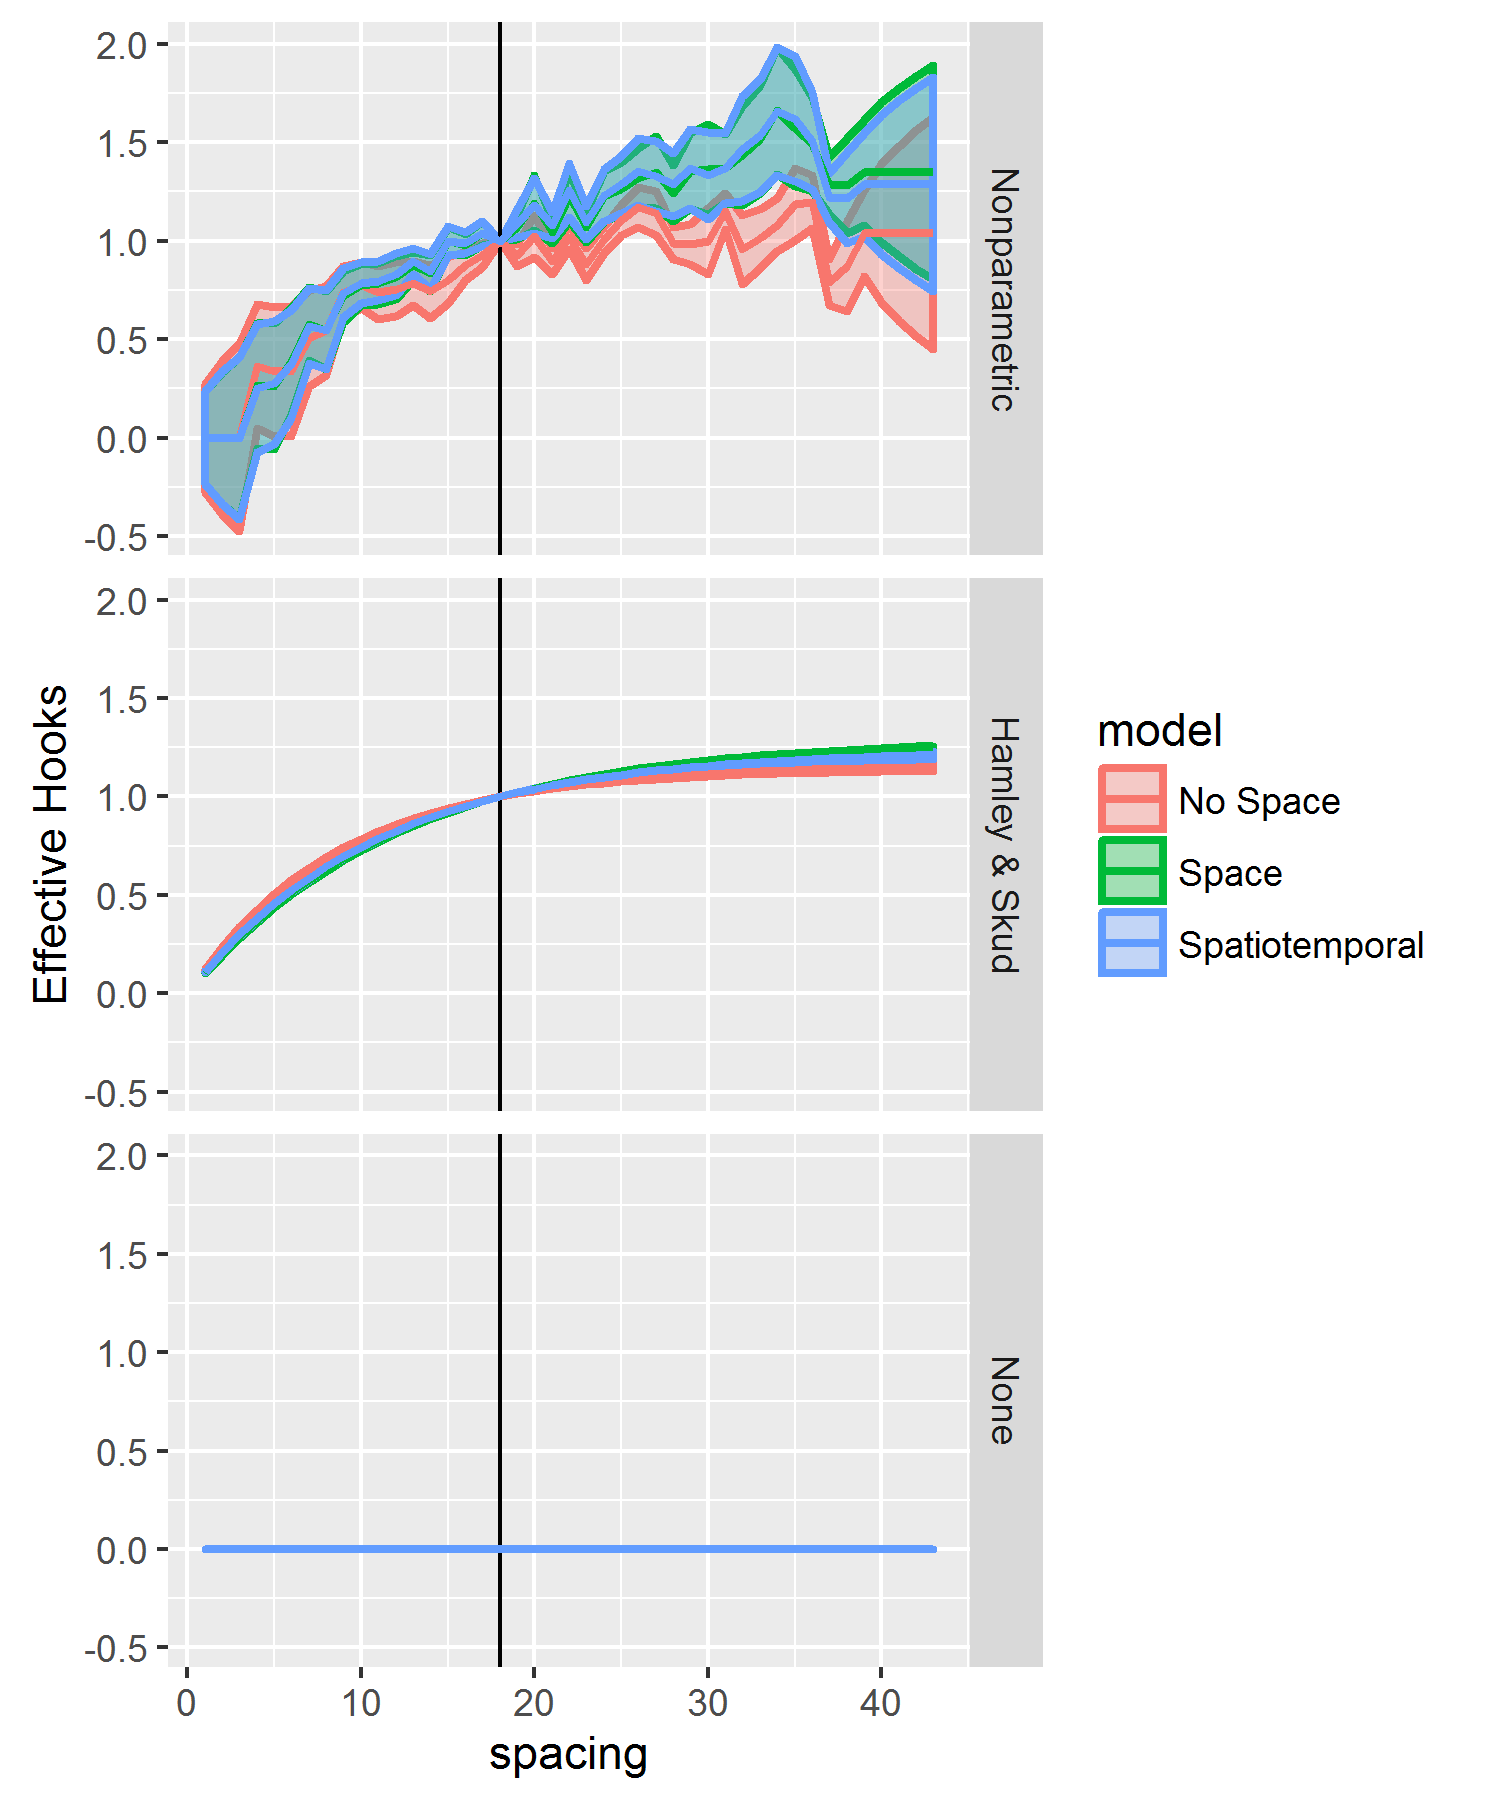
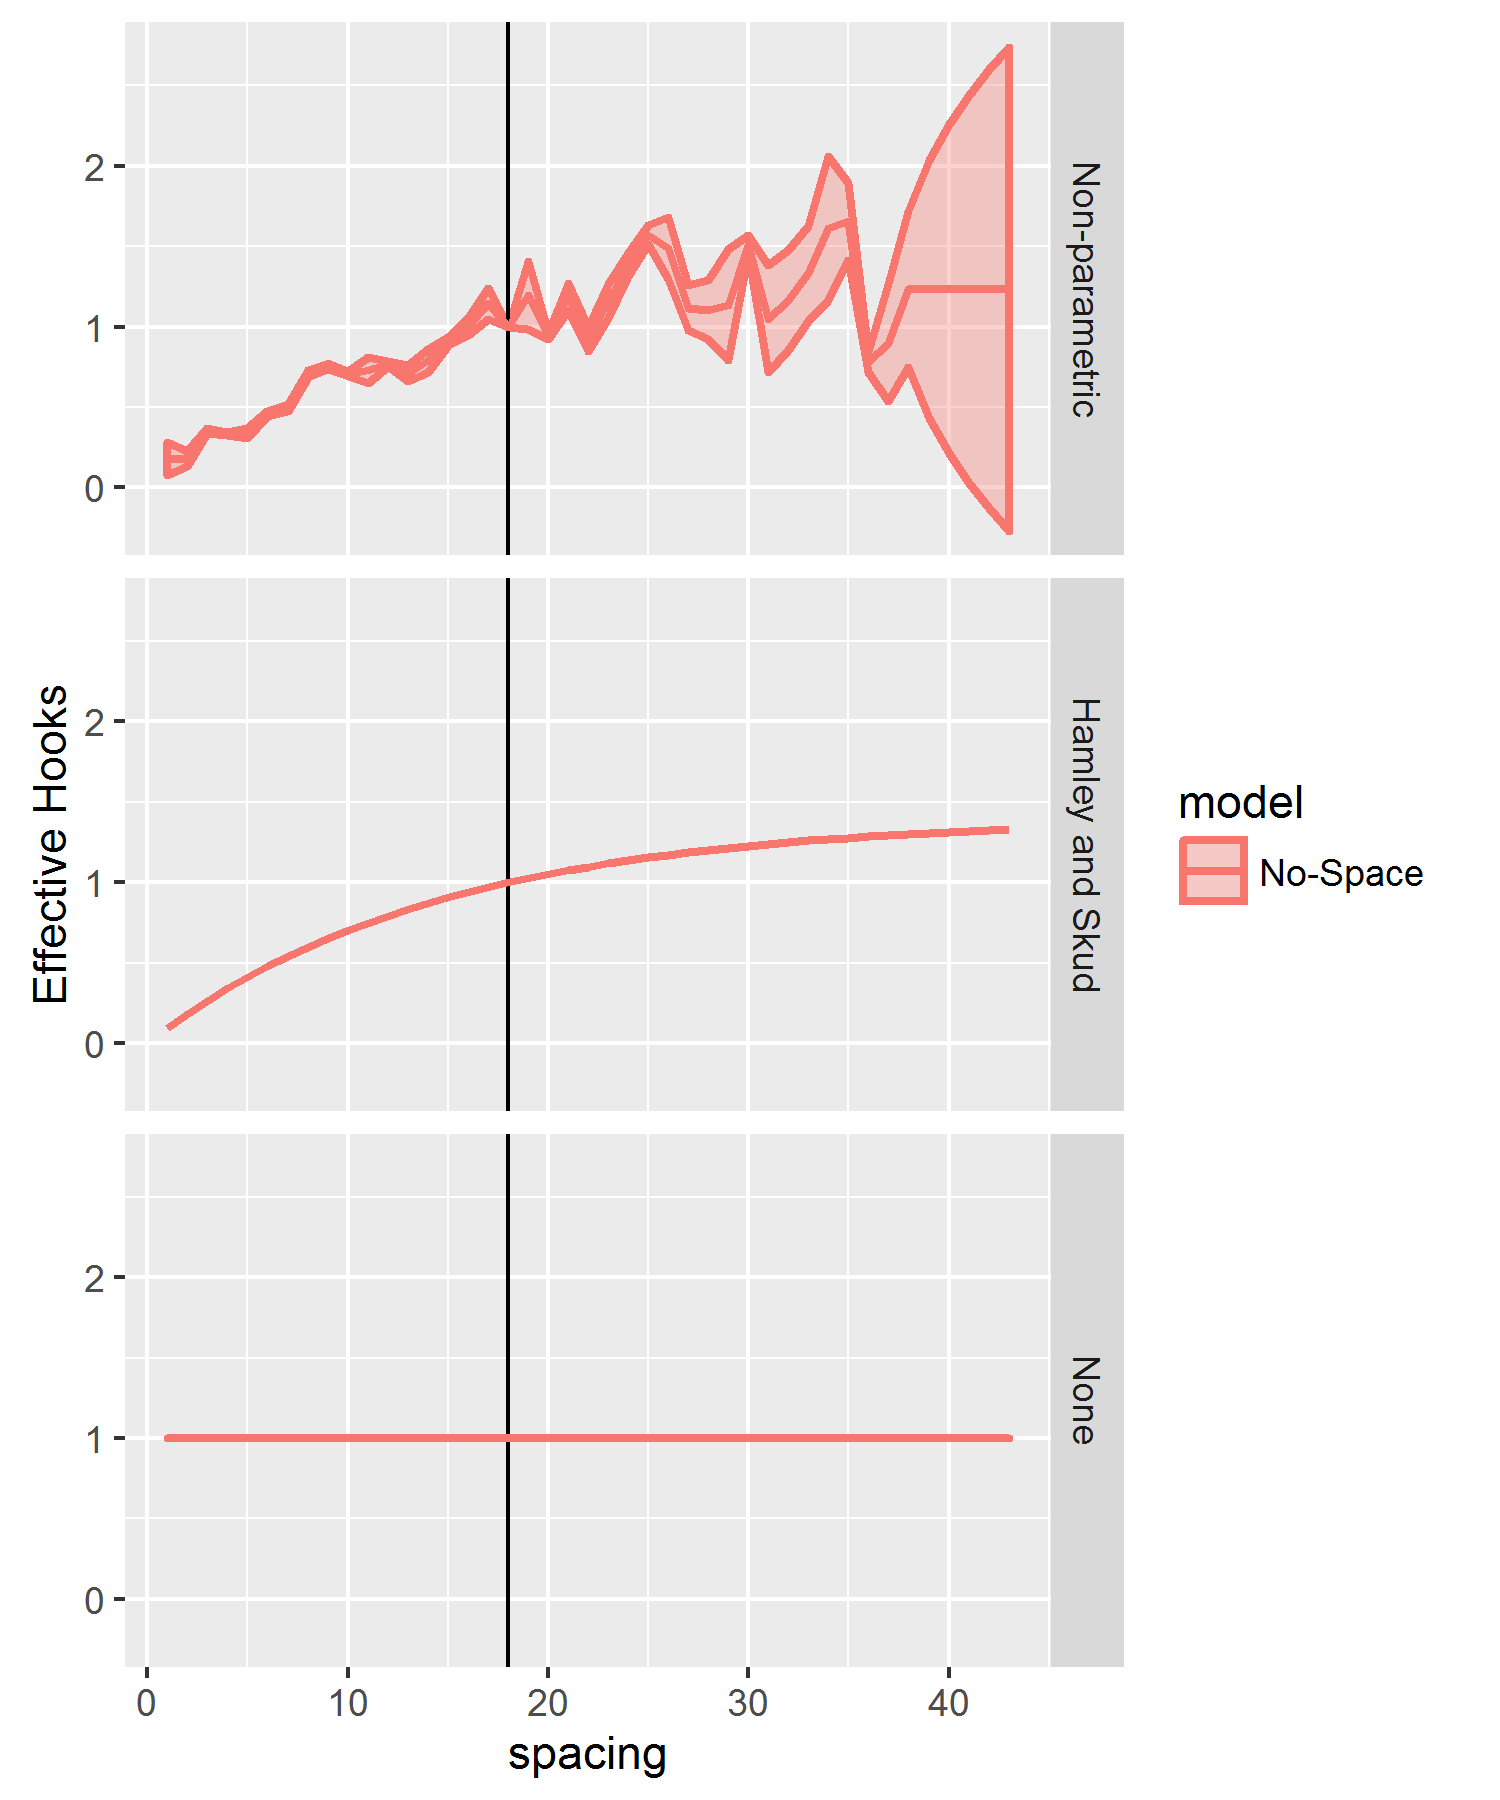
Switch to multiplicative spacing form

diff --git a/models/spatiotemporal_cpue_spacing.cpp b/models/spatiotemporal_cpue_spacing.cpp
@@ -96,26 +96,35 @@ Type objective_function<Type>::operator() ()
   vector<Type> spacing(n_ft);
   // ft here is offset by -1 so ft=0 => spacing of 1ft
   for(int ft=0; ft<n_ft; ft++){
-    // Additive effect of hook spacing for a given foot
+    // smoother on effect of hook spacing for a given foot
     if(form==1) {
-      if(ft==0) spacing(ft)=spacing_devs(ft); // initialize at first dev
+      if(ft==0) spacing(ft)=0; // initialize at first dev
       else spacing(ft)=spacing(ft-1)+spacing_devs(ft);
     }
     // Multiplicative form used by H&S.
-    if(form==2) spacing(ft)=alpha_spacing*(1-pow(exp(-beta_spacing*(ft+1)), lambda));
-    if(form==3) spacing(ft)=0; // no effect
+    if(form==2) spacing(ft)=(1-pow(exp(-beta_spacing*(ft+1)), lambda));
+    if(form==3) spacing(ft)=1; // no effect
+  }
+  // Calculate relative hook power
+  vector<Type> hook_power(n_ft);
+  for(int ft=0; ft<n_ft; ft++){
+    // ft is again offset by 1 here, so ft=0 =>  spacing of 1ft
+    if(form==1) hook_power(ft)=exp(spacing(ft))/exp(spacing(17));
+    if(form==2) hook_power(ft)=spacing(ft)/spacing(17);
+    if(form==3) hook_power(ft)=spacing(ft);
   }
 
-  // The model predictions for each observation
+  // The model predicted catch for each observation, in natural space:
+  // catch=density*hook_power*hooks*catchability
   vector<Type> mu_i(n_i);
   for( int i=0; i<n_i; i++){
-    mu_i(i) = log(hooks_i(i))+spacing(spacing_i(i))+
-	intercept + beta_year(year_i(i)) +
-	 beta_month(month_i(i)) + beta_geartype(geartype_i(i)) +
-	 beta_hooksize(hooksize_i(i)) +
-	 beta_depth*depth_i(i) + beta_depth2*depth_i(i)*depth_i(i) +
-	 vessel_v(vessel_i(i))+
-	 omega_s(s_i(i)) + epsilon_st(s_i(i),year_i(i));
+    mu_i(i) = hooks_i(i)*hook_power(spacing_i(i)-1)*
+      exp(intercept + beta_year(year_i(i)) +
+	  beta_month(month_i(i)) + beta_geartype(geartype_i(i)) +
+	  beta_hooksize(hooksize_i(i)) +
+	  beta_depth*depth_i(i) + beta_depth2*depth_i(i)*depth_i(i) +
+	  vessel_v(vessel_i(i))+
+	  omega_s(s_i(i)) + epsilon_st(s_i(i),year_i(i)));
   }
 
   //// Probability of random effects
@@ -136,13 +145,13 @@ Type objective_function<Type>::operator() ()
   for( int i=0; i<n_i; i++){
     if(likelihood==1) // lognormal case; see top of file for function
       nll_likelihood -=
-	dlognorm(catch_i(i), mu_i(i), Sigma, true);
+	dlognorm(catch_i(i), log(mu_i(i)), Sigma, true);
     if(likelihood==2) // gamma case
       nll_likelihood -=
-    dgamma(catch_i(i), 1/pow(Sigma,2), exp(mu_i(i))*pow(Sigma,2), true);
+    dgamma(catch_i(i), 1/pow(Sigma,2), mu_i(i)*pow(Sigma,2), true);
     if(likelihood==3) // inverse gaussian
       nll_likelihood-=
-	dinvgauss(catch_i(i), exp(mu_i(i)), Sigma, true );
+	dinvgauss(catch_i(i), mu_i(i), Sigma, true );
   }
 
 
@@ -150,12 +159,6 @@ Type objective_function<Type>::operator() ()
   Type jnll = nll_likelihood+nll_omega+nll_epsilon+nll_spacing +nll_vessel;
 
   //// Derived quantities
-  // Standardized effect of spacing
-  vector<Type> spacing_std(n_ft);
-  for(int ft=0; ft<n_ft; ft++)
-    // ft is again offset by 1 here, so ft=0 =>  spacing of 1ft
-    if(form==3)spacing_std(ft)=spacing(ft);
-    else spacing_std(ft)=spacing(ft)/spacing(17);
   // catch per hook -- old way that doesn't make sense right now
   vector<Type> cph_t(n_t);
   for( int t=0; t<n_t; t++){
@@ -174,10 +177,10 @@ Type objective_function<Type>::operator() ()
   }
   // Pearson residuals; (pred-obs)/sd(pred)
   vector<Type> resids;
-  if(likelihood==1) resids=(mu_i-log(catch_i))/Sigma;
-  if(likelihood==2) resids=(exp(mu_i)-catch_i)/(Sigma*exp(mu_i));
-  if(likelihood==3) resids=(exp(mu_i)-catch_i)/(sqrt(exp(mu_i+mu_i+mu_i))/sqrt(Sigma));
-  vector<Type> preds = exp(mu_i);
+  if(likelihood==1) resids=(log(mu_i)-log(catch_i))/Sigma;
+  if(likelihood==2) resids=(mu_i-catch_i)/(Sigma*mu_i);
+  if(likelihood==3) resids=(mu_i-catch_i)/(sqrt(mu_i+mu_i+mu_i)/sqrt(Sigma));
+  vector<Type> preds = mu_i;
 
   //// Reporting
   REPORT(nll_likelihood);
@@ -187,7 +190,7 @@ Type objective_function<Type>::operator() ()
   REPORT(nll_vessel);
   REPORT(intercept);
   REPORT(beta_depth);
-  REPORT(spacing_std);
+  REPORT(hook_power);
   REPORT(spacing);
   REPORT(resids);
   REPORT(preds);
@@ -216,7 +219,7 @@ Type objective_function<Type>::operator() ()
   ADREPORT(SigmaE);		// space
   ADREPORT(SigmaO);		// spatiotemporal
   // Spacing and CPUE calcs
-  ADREPORT(spacing_std);
+  ADREPORT(hook_power);
   ADREPORT(cph_t);
   ADREPORT(area_weighted_density_t);
   return jnll;
